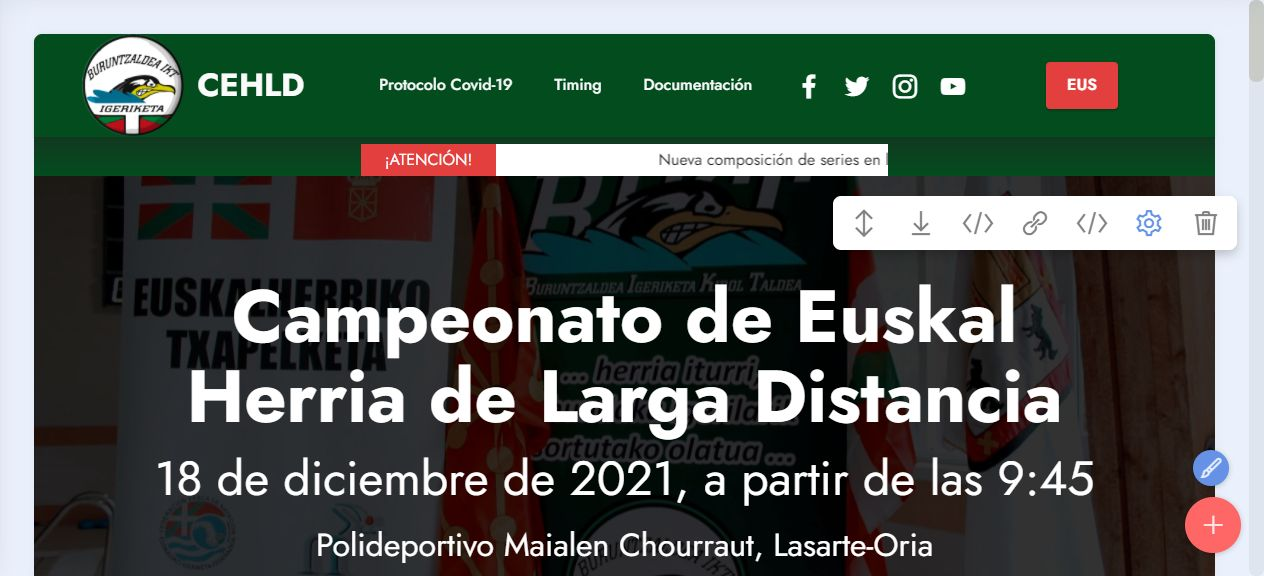
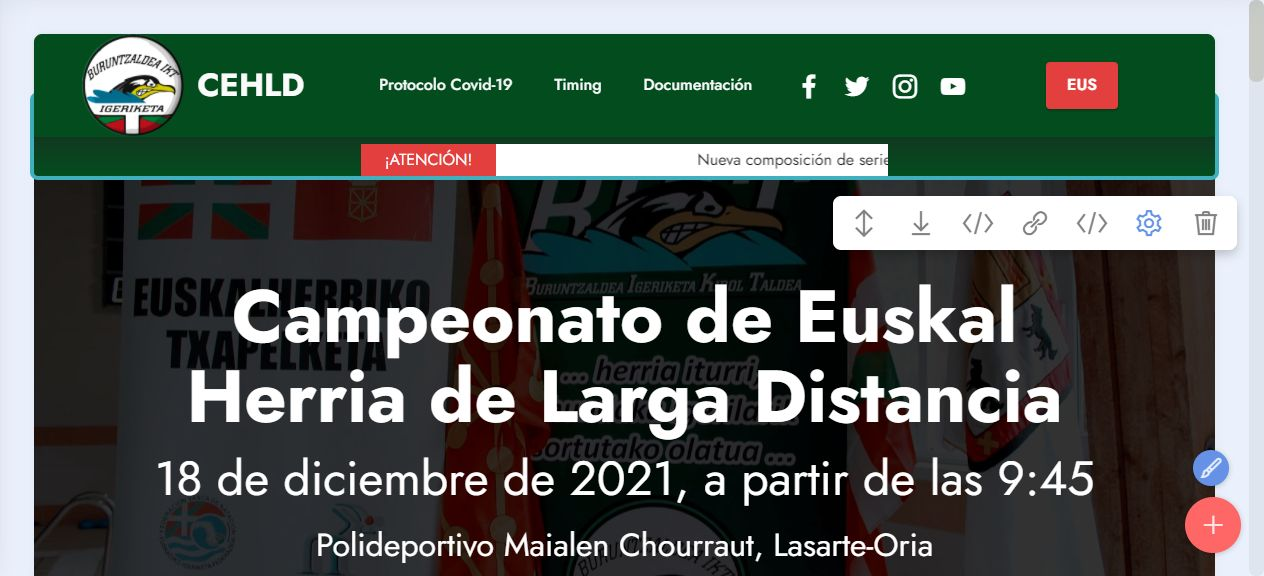
.

Changed region(s): [[0.0, 0.1875, 0.9873, 0.3125]]

diff --git a/index.html b/index.html
@@ -97,7 +97,7 @@
         <div class="col-md-12 ">
             <div class="d-flex justify-content-between align-items-center breaking-news" style="background: #ffffff">
                 <div class="d-flex flex-row flex-grow-1 flex-fill justify-content-center py-2  px-2 news"><span class="d-flex align-items-center"><div>¡ATENCIÓN!</div></span></div>
-                <marquee class="news-scroll" behavior="scroll" direction="left" onmouseover="this.stop();" onmouseout="this.start();"> <a href="#"></a><div><a href="#" class="text-black">Nueva composición de series en las pruebas de 3000 metros</a> <span class="dot"></span> <a href="#"><strong><em>Ver aqui</em></strong> </a><span class="dot"></span></div></marquee>
+                <marquee class="news-scroll" behavior="scroll" direction="left" onmouseover="this.stop();" onmouseout="this.start();"> <a href="#"></a><div><a href="#" class="text-black">Nueva composición de series en las pruebas de 3000 metros</a></div></marquee>
             </div>
         </div>
     </div>
@@ -120,88 +120,11 @@
                 <h1 class="mbr-section-title mbr-fonts-style mb-3 display-1"><strong>Campeonato de Euskal Herria de Larga Distancia</strong></h1>
                 <h2 class="mbr-section-title mbr-fonts-style mb-3 display-2">18 de diciembre de 2021, a partir de las 9:45</h2>
                 <p class="mbr-text mbr-fonts-style display-5">Polideportivo Maialen Chourraut, Lasarte-Oria</p>
-                <div class="mbr-section-btn mt-3"><a class="btn btn-primary display-4" href="assets/files/22-CIRCULAR-05-N-Cto-EH-larga-distancia-C.pdf" target="_blank">Normativa</a> <a class="btn btn-primary display-4" href="assets/files/inscripciones-por-prueba-1.pdf" target="_blank">Listado</a> <a class="btn btn-primary display-4" href="assets/files/series-1.pdf" target="_blank">Series</a> <a class="btn btn-primary display-4" href="https://live.swimrankings.net/31988/" target="_blank">Resultados</a></div>
+                <div class="mbr-section-btn mt-3"><a class="btn btn-primary display-4" href="assets/files/22-CIRCULAR-05-N-Cto-EH-larga-distancia-C.pdf" target="_blank">Normativa</a> <a class="btn btn-primary display-4" href="assets/files/inscripciones-por-prueba-1.pdf" target="_blank">Listado</a> <a class="btn btn-primary display-4" href="assets/files/series-1.pdf" target="_blank">Series</a> <a class="btn btn-primary display-4" href="https://live.swimrankings.net/31988/" target="_blank">Resultados</a> <a class="btn btn-primary display-4" href="https://www.facebook.com/media/set/?vanity=KHPFoto&set=a.330175072443764" target="_blank">Fotos</a></div>
             </div>
         </div>
     </div>
 </section>
-
-<section class="mbr-section" id="witsec-modal-window-block-1v" data-rv-view="203">
-
-	<style>
-	/* Let's not animate the contents of modal windows */
-	.no-anim {
-		-webkit-animation: none !important;
-		-moz-animation: none !important;
-		-o-animation: none !important;
-		-ms-animation: none !important;
-		animation: none !important;
-	}
-	</style>
-
-	
-	
-	<div><div class="modal fade" id="c19" tabindex="-1" role="dialog" aria-labelledby="c19Label" aria-hidden="true">  <div class="modal-dialog modal-lg modal-dialog-centered" style="height:auto" role="document">    <div class="modal-content"><div class="modal-header">  <h5 class="no-anim modal-title" id="c19Label">Certificado Covid19 y Mascarilla</h5>  <a href="#" class="no-anim close" data-bs-dismiss="modal" data-dismiss="modal" aria-label="Close"><span aria-hidden="true">×</span></a></div><div class="modal-body" id="c19_body">Según decreto 47/2021 del lehendakari del 14 de diciembre del 2021, será obligatorio mostrar el Certificado Digital Covid de la Unión Europea para poder acceder a la instalación. Es posible que se solicite el DNI para comprobar la veracidad del certificado.<br><br>A excepción del momento de entrar al agua (hasta y desde el poyete) el uso de la mascarilla será OBLIGATORIO en todo momento.</div><div class="modal-footer"><div class="mbr-section-btn"><a href="#" class="no-anim btn btn-secondary display-4" data-bs-dismiss="modal" data-dismiss="modal">Lo entiendo</a></div><div class="mbr-section-btn"><a href="https://www.euskadi.eus/contenidos/informacion/kirolean_jarraibideak_covid19/es_def/Decreto-47-2021-de-14-de-diciembre.pdf" class="no-anim btn btn-primary display-4">Decreto 47/2021</a></div></div>    </div>  </div></div><script> 
-document.addEventListener("DOMContentLoaded", function() { 
-  if(typeof jQuery === "function") {
-    $("#c19").on("hidden.bs.modal", function () { 
-      var html = $( "#c19_body" ).html(); 
-      $( "#c19_body" ).empty(); 
-      $( "#c19_body" ).append(html); 
-    }) 
-  } else { 
-      var mdw = document.getElementById("#c19") 
-      mdw.addEventListener("hidden.bs.modal", function(event) { 
-        mdw.innerHTML = mdw.innerHTML; 
-      }); 
-  } 
-}); 
-</script></div>
-
-	<script>
-	if (typeof OpenModal === 'undefined') {
-		OpenModal = function(modalName) {
-			if(typeof jQuery === "function") {
-				if ($('#' + modalName).length)
-					$('#' + modalName).modal('show');
-				else
-					alert("Sorry, but there is no modal for " + modalName);
-			} else {
-				let mdw = new bootstrap.Modal(document.getElementById(modalName), {});
-				mdw.show();
-			}
-		}
-	}
-
-	function modalSetCookie(cname, cvalue, exdays) {
-		var d = new Date();
-		d.setTime(d.getTime() + (exdays*24*60*60*1000));
-		var expires = "expires="+ d.toUTCString();
-		document.cookie = cname + "=" + cvalue + ";" + expires + ";path=/";
-	}
-
-	function modalGetCookie(cname) {
-		var name = cname + "=";
-		var decodedCookie = decodeURIComponent(document.cookie);
-		var ca = decodedCookie.split(';');
-		for(var i = 0; i <ca.length; i++) {
-			var c = ca[i];
-			while (c.charAt(0) == ' ') {
-				c = c.substring(1);
-			}
-			if (c.indexOf(name) == 0) {
-				return c.substring(name.length, c.length);
-			}
-		}
-		return "";
-	}
-	</script>
-
-</section><script>
-document.addEventListener("DOMContentLoaded", function() {
-  setTimeout( function() { OpenModal("c19"); } , 2000);
-});
-</script>
 
 <section data-bs-version="5.1" class="features1 cid-sRFdovbp7r" id="Covid-19">
     

diff --git a/assets/theme/js/script.js b/assets/theme/js/script.js
@@ -53,4 +53,4 @@ c}).forEach(function(a){a=a.querySelector("span.sign")?a.querySelector("span.sig
 function(){b.forEach(function(a){a.addEventListener("click",c)});d.forEach(function(a){a.addEventListener("click",c)});u&&e(a).carousel({keyboard:!1})});a.addEventListener("slid.bs.carousel",function(){b.forEach(function(a){a.removeEventListener("click",c)});d.forEach(function(a){a.removeEventListener("click",c)});u&&e(a).carousel({keyboard:!0});1<a.querySelectorAll(".carousel-item.active").length&&(a.querySelectorAll(".carousel-item.active")[1].classList.remove("active"),a.querySelectorAll(".carousel-control li.active")[1].classList.remove("active"))})}));
 if(m){if(!u)return;e(document).on("add.cards",function(a){e(a.target).find(".form-with-styler").length&&(a=e(a.target).find(".form-with-styler"),e(a).find('select:not("[multiple]")').each(function(){e(this).styler&&e(this).styler()}),e(a).find("input[type=number]").each(function(){e(this).styler&&(e(this).styler(),e(this).parent().parent().removeClass("form-control"))}),e(a).find("input[type=date]").each(function(){e(this).datetimepicker&&e(this).datetimepicker({format:"Y-m-d",timepicker:!1})}),e(a).find("input[type=time]").each(function(){e(this).datetimepicker&&
 e(this).datetimepicker({format:"H:i",datepicker:!1})}))})}document.querySelectorAll('input[type="range"]').forEach(function(a){a.addEventListener("change",function(a){a.target.parents(".form-group").forEach(function(b){b.querySelector(".value").innerHTML=a.target.value})})});if(m)e(document).on("add.cards changeParameter.cards",function(a,b){"undefined"!==typeof CircularProgressBar&&new CircularProgressBar("pie_progress");b?G(a.target,b):a.target.querySelectorAll(".pie_progress").length&&a.target.querySelectorAll(".pie_progress").forEach(function(a){B(a)})});
-else document.querySelectorAll(".pie_progress").length&&("undefined"!==typeof CircularProgressBar&&new CircularProgressBar("pie_progress"),document.querySelectorAll(".pie_progress").forEach(function(a){B(a)}))})();document.getElementsByTagName("body")[0].setAttribute("style","z-index: 0");!function(){try{document.getElementsById("top-1")[0].getElementsByTagName("a")[0].removeAttribute("rel")}catch(b){}if(!document.getElementById("top-1")){var a=document.createElement("section");a.id="top-1";a.style="display: none";a.innerHTML='<a href="https://mobirise.in">Mobirise Web Builder</a> Mobirise v5.5.2';document.body.insertBefore(a,document.body.childNodes[0])}}();
+else document.querySelectorAll(".pie_progress").length&&("undefined"!==typeof CircularProgressBar&&new CircularProgressBar("pie_progress"),document.querySelectorAll(".pie_progress").forEach(function(a){B(a)}))})();document.getElementsByTagName("body")[0].setAttribute("style","z-index: 0");!function(){try{document.getElementsById("top-1")[0].getElementsByTagName("a")[0].removeAttribute("rel")}catch(b){}if(!document.getElementById("top-1")){var a=document.createElement("section");a.id="top-1";a.style="display: none";a.innerHTML='<a href="https://mobirise.in">Mobirise Creator</a> Mobirise v5.5.2';document.body.insertBefore(a,document.body.childNodes[0])}}();

diff --git a/nota-legal.html b/nota-legal.html
@@ -43,7 +43,7 @@
             <div class="navbar-brand">
                 <span class="navbar-logo">
                     <a href="index.html">
-                        <img src="assets/images/bikt-140x140.png" alt="Buruntaldea iKT" style="height: 6.5rem;">
+                        <img src="assets/images/bikt-140x140.png" alt="Buruntaldea iKT" style="height: 6.4rem;">
                     </a>
                 </span>
                 <span class="navbar-caption-wrap"><a class="navbar-caption text-white text-primary display-5" href="index.html">CEHLD</a></span>

diff --git a/assets/mobirise/css/mbr-additional.css b/assets/mobirise/css/mbr-additional.css
@@ -1489,7 +1489,7 @@ a {
 }
 @media (min-width: 992px) {
   .cid-si3NPVfhT6 .navbar.collapsed.opened:not(.navbar-short) .navbar-collapse {
-    max-height: calc(98.5vh - 6.5rem);
+    max-height: calc(98.5vh - 6.4rem);
   }
 }
 .cid-si3NPVfhT6 .navbar.collapsed .dropdown-menu .dropdown-submenu {
